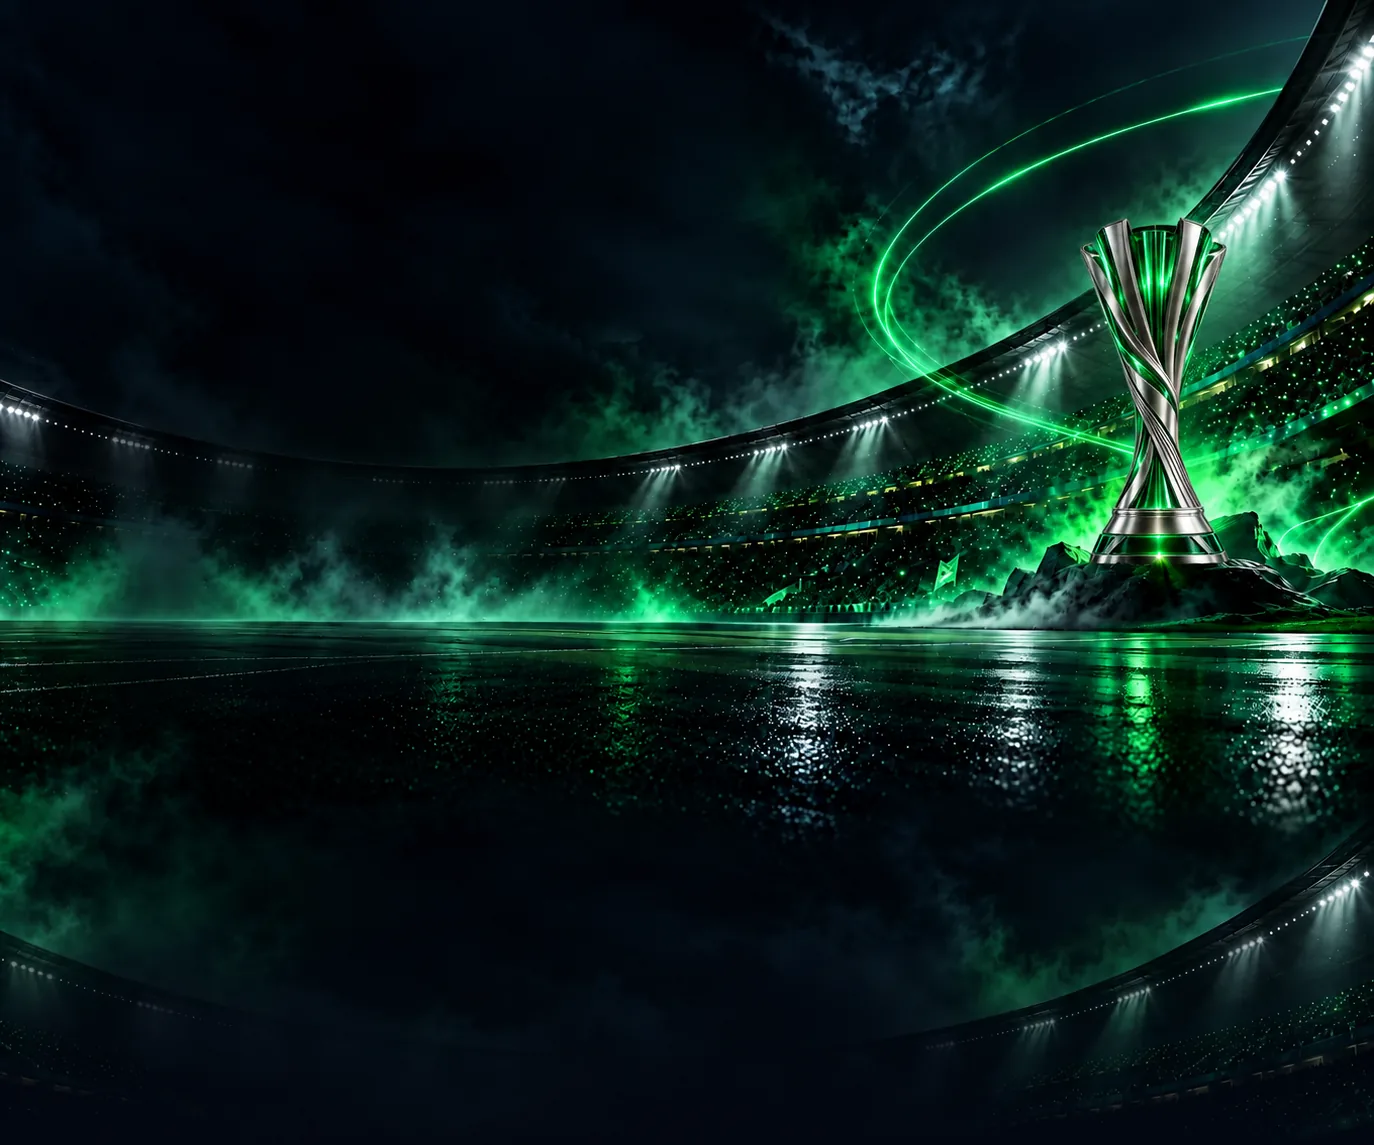
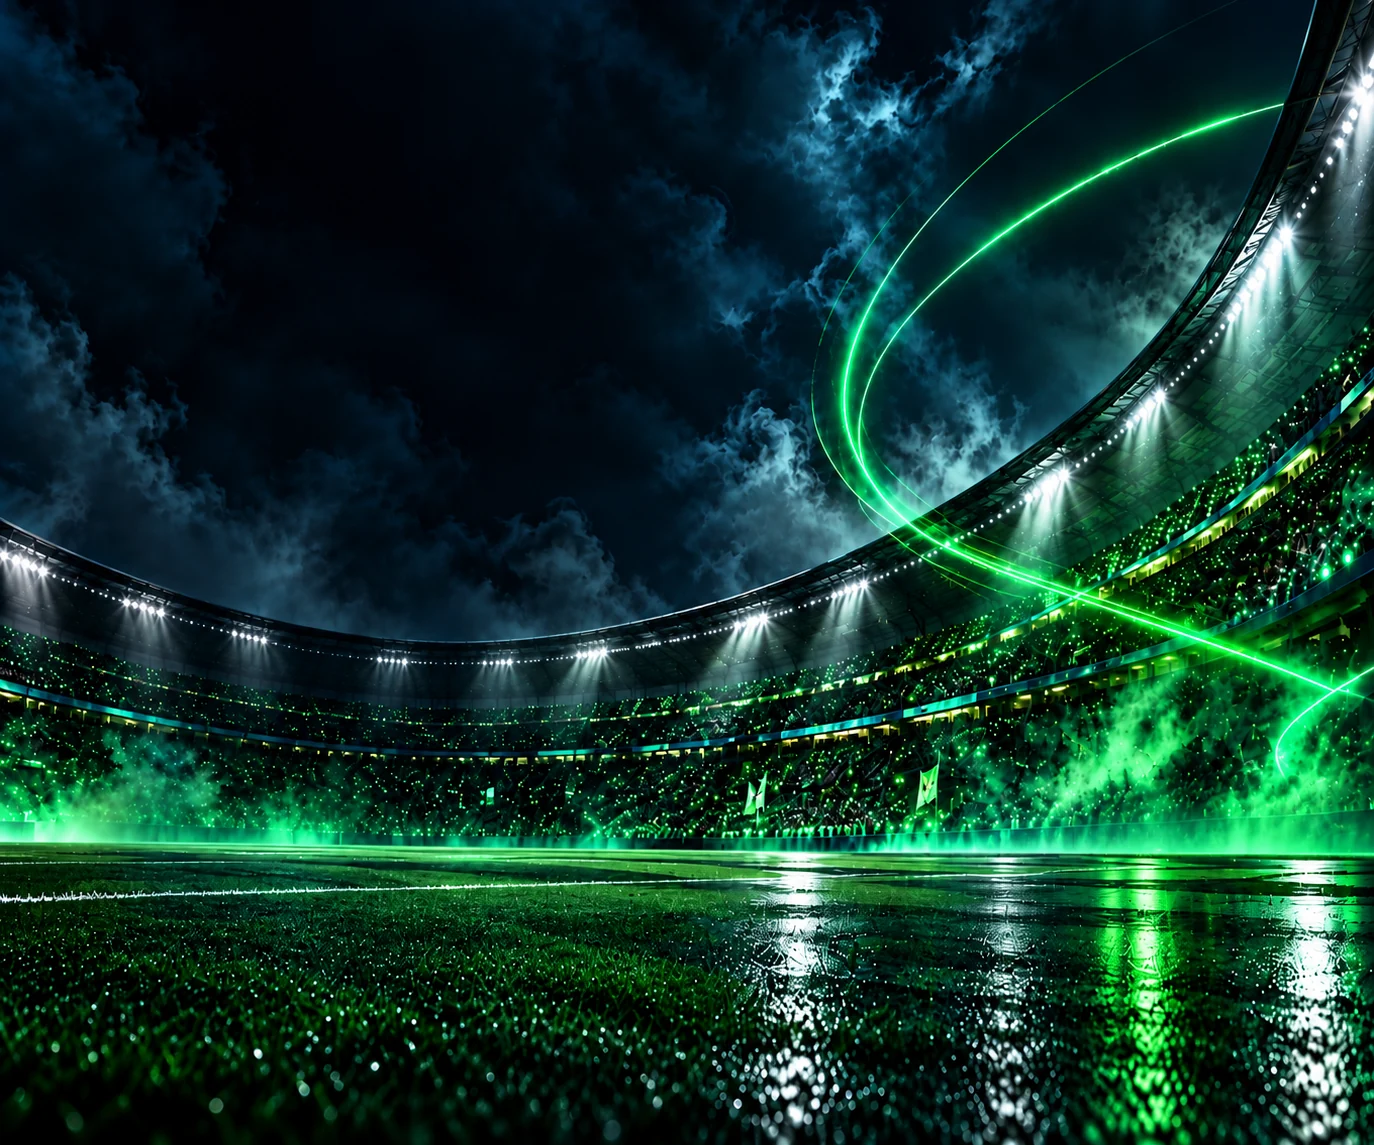
Improve Conference League stadium background

diff --git a/components/GroupStagePage.tsx b/components/GroupStagePage.tsx
@@ -390,7 +390,7 @@ away_id:
   <main
     className={
   competition === "conferenceLeague"
-    ? "min-h-screen overflow-x-clip bg-[#030711] text-white"
+  ? "min-h-screen overflow-x-clip bg-[#030711] text-white [--lk-bg-y:55px] lg:[--lk-bg-y:-220px]"
     : competition === "championsLeague"
       ? "champions-league-mobile-bg min-h-screen overflow-x-clip bg-[#030711] text-white"
       : "min-h-screen bg-[#030711] text-white"
@@ -400,8 +400,8 @@ away_id:
         ? {
             backgroundImage:
               'linear-gradient(to bottom, rgba(3,7,17,0.12) 0px, rgba(3,7,17,0.25) 450px, rgba(3,7,17,0.75) 1050px, #030711 1600px), url("/backgrounds/iron-league-conference-full-bg.webp")',
-            backgroundSize: "100% 1600px, 100% auto",
-            backgroundPosition: "center top, center 55px",
+            backgroundSize: "100% 100%, 100% auto",
+            backgroundPosition: "center top, center var(--lk-bg-y)",
             backgroundRepeat: "no-repeat",
           }
             : competition === "europaLeague"
